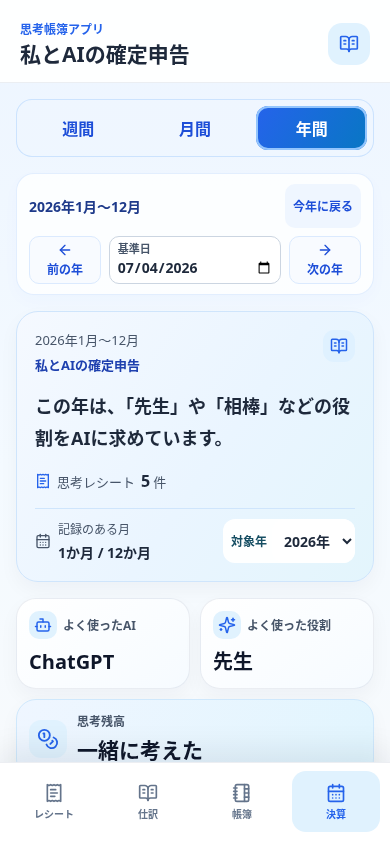
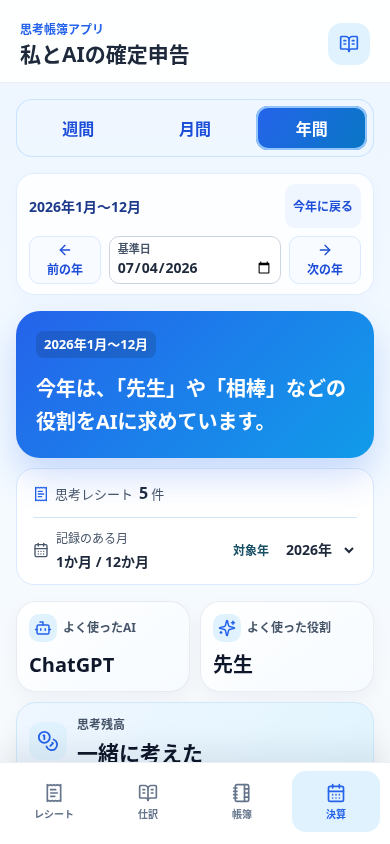
Match report summary cards to existing blue heroes

diff --git a/src/App.tsx b/src/App.tsx
@@ -1,6 +1,6 @@
 import { type ReactNode, useCallback, useEffect, useMemo, useRef, useState } from "react";
 import QRCode from "qrcode";
-import { type LedgerPeriod, calendarDate, dateKey, formatPeriod, ledgerDate, parseLedgerDate, selectPeriod, shiftPeriod } from "./ledgerPeriods";
+import { type LedgerPeriod, calendarDate, dateKey, formatPeriod, ledgerDate, parseLedgerDate, periodBounds, selectPeriod, shiftPeriod } from "./ledgerPeriods";
 import { buildReportSummary } from "./reportSummary";
 import {
   ArrowLeft,
@@ -1209,28 +1209,33 @@ function ReportDateText({ value }: { value: string }) {
   ))}</>;
 }
 
-function ReportSummary({ title, period, records, kind, children }: {
+function ReportSummary({ title, period, records, kind, anchor, children }: {
   title: string;
   period: string;
   records: IssuedThinkingReceipt[];
   kind: SettlementView;
+  anchor: Date;
   children?: ReactNode;
 }) {
-  const summary = useMemo(() => buildReportSummary(records, kind), [records, kind]);
+  const { start, end } = periodBounds(anchor, kind);
+  const now = new Date();
+  const isCurrent = now >= start && now < end;
+  const summary = useMemo(() => buildReportSummary(records, kind, isCurrent), [records, kind, isCurrent]);
   return (
-    <section className="report-summary" aria-label={`${title}のサマリー`}>
-      <div className="report-summary-heading">
-        <div><p className="report-summary-period"><ReportDateText value={period} /></p><h2>{title}</h2></div>
-        <span className="report-summary-icon" aria-hidden="true"><BookOpenText size={18} /></span>
+    <div className="report-summary-group">
+      <section className="monthly-hero-card report-summary" aria-label={`${title}のサマリー`}>
+        <p className="report-summary-period"><ReportDateText value={period} /></p>
+        <h2 className="report-summary-message">{summary}</h2>
+      </section>
+      <div className="report-summary-metadata">
+        <div className="report-summary-total">
+          <ReceiptText size={16} aria-hidden="true" />
+          <span className="report-summary-label">思考レシート</span>
+          <p className="report-summary-count"><strong>{records.length}</strong><span>件</span></p>
+        </div>
+        {children && <div className="report-summary-footer">{children}</div>}
       </div>
-      <p className="report-summary-message">{summary}</p>
-      <div className="report-summary-total">
-        <ReceiptText size={16} aria-hidden="true" />
-        <span className="report-summary-label">思考レシート</span>
-        <p className="report-summary-count"><strong>{records.length}</strong><span>件</span></p>
-      </div>
-      {children && <div className="report-summary-footer">{children}</div>}
-    </section>
+    </div>
   );
 }
 
@@ -1310,6 +1315,7 @@ function PeriodLedgerScreen({ kind, anchor, ledgerReceipts, onOpenLedger }: {
         period={formatPeriod(anchor, kind)}
         records={records}
         kind={kind}
+        anchor={anchor}
       />
       <ReportInsights stats={stats} />
       {undated > 0 && <p className="report-date-warning" role="status">日付を確認できない{undated}件は集計に含めていません。帳簿の詳細から日付を確認してください。</p>}
@@ -1375,7 +1381,7 @@ function ThoughtSettlementScreen({
 
   return (
     <section className="stack settlement-screen">
-      <ReportSummary title="私とAIの確定申告" period={`${selectedYear}年1月〜12月`} records={annualReceipts} kind="annual">
+      <ReportSummary title="私とAIの確定申告" period={`${selectedYear}年1月〜12月`} records={annualReceipts} kind="annual" anchor={calendarDate(selectedYear, 0, 1)}>
         <span className="report-recorded-months"><CalendarDays size={16} aria-hidden="true" /><span>記録のある月<strong>{months.filter((count) => count > 0).length}か月 / 12か月</strong></span></span>
         <label className="annual-year-control report-summary-year"><span>対象年</span>
           <select value={selectedYear} onChange={(event) => onYearChange(Number(event.target.value))}>

diff --git a/src/styles.css b/src/styles.css
@@ -3294,63 +3294,52 @@ button {
   gap: 8px;
 }
 
-.report-summary {
+.report-summary-group {
   display: grid;
-  gap: 14px;
-  min-width: 0;
-  padding: 18px;
-  border: 1px solid #cfe5fc;
-  border-radius: 22px;
-  color: #1e293b;
-  background: linear-gradient(125deg, #f5f9ff 0%, #eaf5ff 55%, #e3f5fc 100%);
-  box-shadow: 0 8px 20px rgba(15, 23, 42, 0.04);
-}
-
-.report-summary-heading {
-  display: flex;
-  align-items: flex-start;
-  justify-content: space-between;
-  gap: 12px;
-}
-
-.report-summary-heading > div {
+  gap: 10px;
   min-width: 0;
 }
 
-.report-summary-period {
-  margin: 0 0 4px;
-  font-size: 13px;
-  color: #475569;
-  font-weight: 500;
-  line-height: 1.6;
+.report-summary {
+  min-width: 0;
+  min-height: 0;
+  align-content: start;
 }
 
-.report-summary h2 {
+.report-summary::after {
+  display: none;
+}
+
+.report-summary p.report-summary-period {
   margin: 0;
-  color: #1e40af;
+  justify-self: start;
+  max-width: 100%;
+  padding: 3px 8px;
+  border-radius: 8px;
+  background: rgba(15, 23, 42, 0.16);
   font-size: 13px;
+  color: #fff;
   font-weight: 600;
   line-height: 1.6;
 }
 
-.report-summary-message {
+.report-summary h2.report-summary-message {
   margin: 0;
-  color: #1e293b;
-  font-size: 18px;
-  font-weight: 600;
-  line-height: 1.8;
+  color: #fff;
+  font-size: 20px;
+  font-weight: 700;
+  line-height: 1.65;
   overflow-wrap: anywhere;
 }
 
-.report-summary-icon {
+.report-summary-metadata {
   display: grid;
-  place-items: center;
-  flex-shrink: 0;
-  width: 32px;
-  height: 32px;
-  border-radius: 11px;
-  background: #dff1ff;
-  color: #2563eb;
+  gap: 10px;
+  min-width: 0;
+  padding: 12px 16px;
+  border: 1px solid #dbeafe;
+  border-radius: 18px;
+  background: #fff;
 }
 
 .report-summary-total {

diff --git a/src/reportSummary.ts b/src/reportSummary.ts
@@ -3,9 +3,11 @@ type SummaryPeriod = "weekly" | "monthly" | "annual";
 
 // Presentation only: use one recorded field at a time, never infer a relationship
 // between independently counted AI names, roles, topics or thinking balances.
-export function buildReportSummary(records: readonly SummaryRecord[], kind: SummaryPeriod): string {
+export function buildReportSummary(records: readonly SummaryRecord[], kind: SummaryPeriod, isCurrent = false): string {
   if (records.length === 0) return "この期間の記録はまだありません。";
-  const period = kind === "weekly" ? "この週" : kind === "monthly" ? "この月" : "この年";
+  const period = isCurrent
+    ? kind === "weekly" ? "今週" : kind === "monthly" ? "今月" : "今年"
+    : kind === "weekly" ? "この週" : kind === "monthly" ? "この月" : "この年";
   const fallback = `${period}は、思考レシートが${records.length}件残っています。`;
   try {
     const roles = countLabels(records.map(record => record.aiRole));

diff --git a/tests/reportSummary.test.ts b/tests/reportSummary.test.ts
@@ -14,6 +14,13 @@ test('empty and single records avoid invented trends in all periods', () => {
   }
 });
 
+test('only the displayed current period uses this week, month or year', () => {
+  for (const [kind, prefix] of [['weekly', '今週は'], ['monthly', '今月は'], ['annual', '今年は']] as const) {
+    assert.ok(buildReportSummary([record('先生')], kind, true).startsWith(prefix));
+    assert.doesNotMatch(buildReportSummary([record('先生')], kind, false), /今週|今月|今年/);
+  }
+});
+
 test('only a strict majority of all records is described as frequent', () => {
   assert.match(buildReportSummary([record('先生'), record('先生'), record('編集者')], 'weekly'), /「先生」.*多め/);
   for (const records of [
